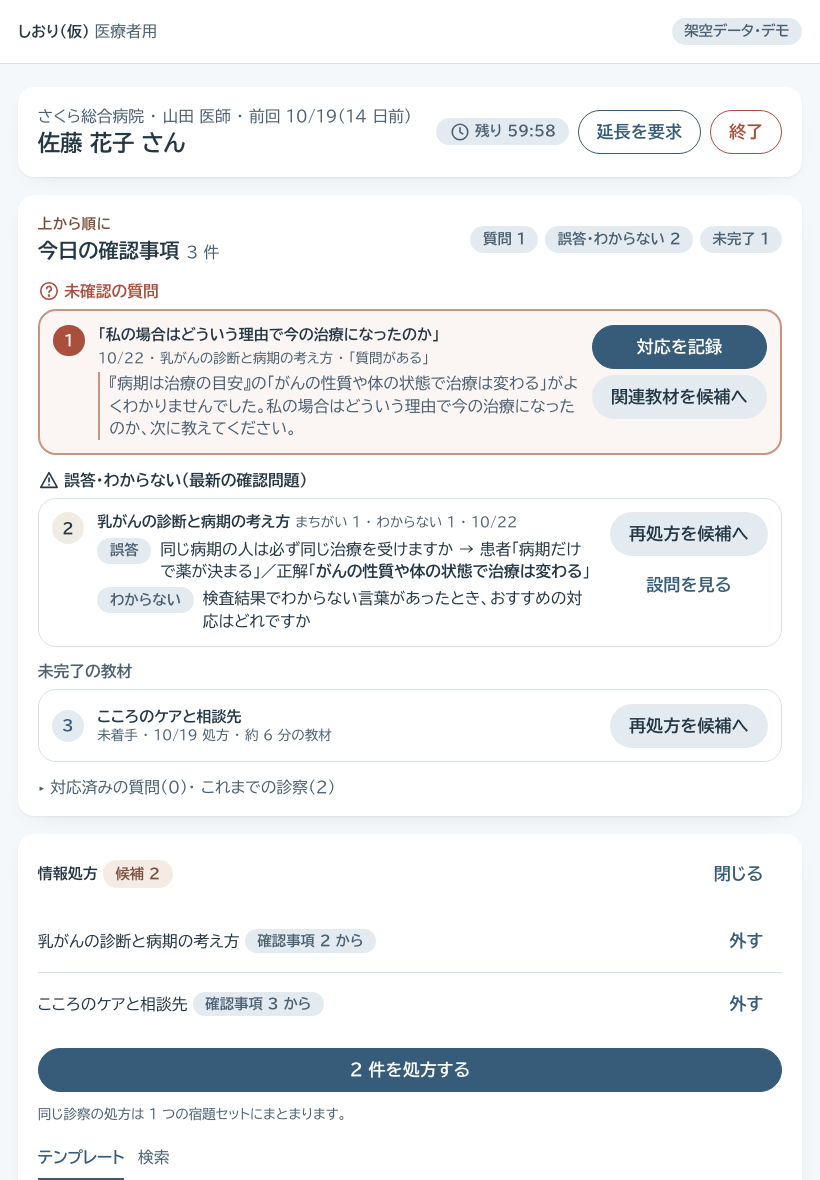
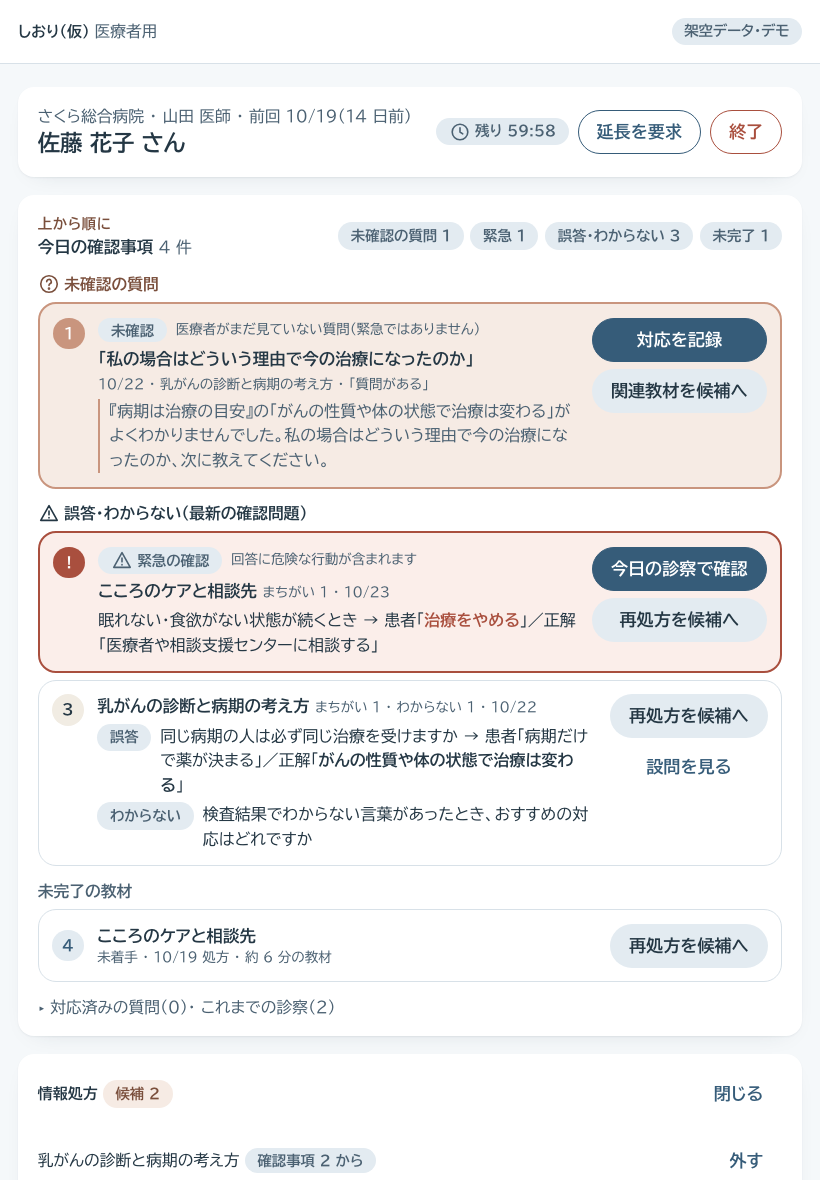
docs(design): PB preview refinements — no-crop thumbnails, urgent vs unconfirmed, staff text sizes; /pb access test
ユーザー指摘への対応（本番 UI は未変更。docs/design/porcelain_blue_20261103/README.md）:
- 図解ストリップのサムネイルはトリミングしない（object-fit: contain、52px）。内容は図本体で読む
- 緊急（赤＋「緊急の確認」＋警告アイコン: 危険な行動を含む回答など）と未確認（テラコッタ＋「未確認」: 状態）を区別。診察プレビューに例を追加
- 医療者画面は一律 15px にせず、質問・誤答・確認事項は 16〜16.5px（.pb-important）
- tests/e2e/pb_access.spec.ts: /pb/* は未ログイン→/staff/login、患者→/home にリダイレクト、医療者のみ表示。図解は承認済み公開アセットのみ
- 再撮影（390/430/820/1180、文字拡大）と計測値を更新

diff --git a/src/app/pb/consult/page.tsx b/src/app/pb/consult/page.tsx
@@ -41,28 +41,33 @@ export default async function PbConsult() {
               <div className="flex flex-wrap items-center justify-between gap-2">
                 <div>
                   <p className="pb-eyebrow">上から順に</p>
-                  <h2 id="pb-today" className="text-lg font-bold">
-                    今日の確認事項 <span className="text-ink-soft font-normal text-sm">3 件</span>
+                  <h2 id="pb-today" className="text-lg font-bold pb-important">
+                    今日の確認事項 <span className="text-ink-soft font-normal text-sm">4 件</span>
                   </h2>
                 </div>
                 <div className="flex flex-wrap gap-1.5">
-                  <span className="pill bg-sakura text-danger">質問 1</span>
-                  <span className="pill bg-suna text-ink">誤答・わからない 2</span>
+                  <span className="pill pb-tag-unconfirmed">未確認の質問 1</span>
+                  <span className="pill pb-tag-urgent">緊急 1</span>
+                  <span className="pill bg-suna text-ink">誤答・わからない 3</span>
                   <span className="pill">未完了 1</span>
                 </div>
               </div>
 
               <div className="space-y-1.5">
-                <h3 className="text-sm font-bold text-danger inline-flex items-center gap-1">
+                <h3 className="text-sm font-bold inline-flex items-center gap-1" style={{ color: "var(--pb-terra-ink)" }}>
                   <IconQuestion />
                   未確認の質問
                 </h3>
-                <div className="rounded-2xl border-2 border-sakura-deep bg-sakura/40 p-3 flex flex-wrap gap-3 items-start sm:flex-nowrap">
-                  <span className="w-7 h-7 rounded-full bg-danger text-white inline-flex items-center justify-center font-bold shrink-0">1</span>
+                <div className="rounded-2xl pb-unconfirmed p-3 flex flex-wrap gap-3 items-start sm:flex-nowrap">
+                  <span className="w-7 h-7 rounded-full bg-sakura-deep text-white inline-flex items-center justify-center font-bold shrink-0">1</span>
                   <div className="min-w-0 flex-1 basis-[12rem] space-y-1">
-                    <p className="font-bold leading-snug">「私の場合はどういう理由で今の治療になったのか」</p>
+                    <p className="flex flex-wrap items-center gap-2">
+                      <span className="pill pb-tag-unconfirmed text-xs">未確認</span>
+                      <span className="text-xs text-ink-soft">医療者がまだ見ていない質問（緊急ではありません）</span>
+                    </p>
+                    <p className="font-bold leading-snug pb-important">「私の場合はどういう理由で今の治療になったのか」</p>
                     <p className="text-xs text-ink-soft">10/22 ・ 乳がんの診断と病期の考え方 ・ 「質問がある」</p>
-                    <p className="text-sm border-l-2 border-sakura-deep pl-2 text-ink-soft">『病期は治療の目安』の「がんの性質や体の状態で治療は変わる」がよくわかりませんでした。私の場合はどういう理由で今の治療になったのか、次に教えてください。</p>
+                    <p className="pb-important-sub border-l-2 border-sakura-deep pl-2 text-ink-soft">『病期は治療の目安』の「がんの性質や体の状態で治療は変わる」がよくわかりませんでした。私の場合はどういう理由で今の治療になったのか、次に教えてください。</p>
                   </div>
                   <div className="flex flex-wrap sm:flex-col gap-1.5 w-full sm:w-auto">
                     <button className="btn btn-primary flex-1 sm:flex-none">対応を記録</button>
@@ -76,13 +81,36 @@ export default async function PbConsult() {
                   <IconAlert />
                   誤答・わからない（最新の確認問題）
                 </h3>
-                <div className="rounded-2xl border border-line p-3 flex flex-wrap gap-3 items-start sm:flex-nowrap">
-                  <span className="w-7 h-7 rounded-full bg-suna text-ink inline-flex items-center justify-center font-bold shrink-0">2</span>
+                {/* 緊急: 患者の回答に医学的に危険な行動（治療をやめる）が含まれる例。赤＋「緊急の確認」。未確認（テラコッタ）とは別 */}
+                <div className="rounded-2xl pb-urgent p-3 flex flex-wrap gap-3 items-start sm:flex-nowrap">
+                  <span className="w-7 h-7 rounded-full bg-danger text-white inline-flex items-center justify-center font-bold shrink-0">!</span>
                   <div className="min-w-0 flex-1 basis-[12rem] space-y-1">
-                    <p className="font-bold leading-snug">
+                    <p className="flex flex-wrap items-center gap-2">
+                      <span className="pill pb-tag-urgent text-xs inline-flex items-center gap-1">
+                        <IconAlert />
+                        緊急の確認
+                      </span>
+                      <span className="text-xs text-ink-soft">回答に危険な行動が含まれます</span>
+                    </p>
+                    <p className="font-bold leading-snug pb-important">
+                      こころのケアと相談先 <span className="text-xs font-normal text-ink-soft">まちがい 1 ・ 10/23</span>
+                    </p>
+                    <p className="pb-important-sub">
+                      眠れない・食欲がない状態が続くとき → 患者「<b className="text-danger">治療をやめる</b>」／正解「医療者や相談支援センターに相談する」
+                    </p>
+                  </div>
+                  <div className="flex flex-wrap sm:flex-col gap-1.5 w-full sm:w-auto">
+                    <button className="btn btn-primary flex-1 sm:flex-none">今日の診察で確認</button>
+                    <button className="btn btn-soft flex-1 sm:flex-none">再処方を候補へ</button>
+                  </div>
+                </div>
+                <div className="rounded-2xl border border-line p-3 flex flex-wrap gap-3 items-start sm:flex-nowrap">
+                  <span className="w-7 h-7 rounded-full bg-suna text-ink inline-flex items-center justify-center font-bold shrink-0">3</span>
+                  <div className="min-w-0 flex-1 basis-[12rem] space-y-1">
+                    <p className="font-bold leading-snug pb-important">
                       乳がんの診断と病期の考え方 <span className="text-xs font-normal text-ink-soft">まちがい 1 ・ わからない 1 ・ 10/22</span>
                     </p>
-                    <ul className="text-sm space-y-1">
+                    <ul className="pb-important-sub space-y-1">
                       <li className="flex gap-2 items-start">
                         <span className="pill bg-sakura text-danger shrink-0">誤答</span>
                         <span>
@@ -105,11 +133,11 @@ export default async function PbConsult() {
               <div className="space-y-1.5">
                 <h3 className="text-sm font-bold text-ink-soft">未完了の教材</h3>
                 <div className="rounded-2xl border border-line p-3 flex flex-wrap gap-3 items-center">
-                  <span className="w-7 h-7 rounded-full bg-accent-soft text-accent inline-flex items-center justify-center font-bold shrink-0" style={{ background: "var(--accent-soft)" }}>
-                    3
+                  <span className="w-7 h-7 rounded-full inline-flex items-center justify-center font-bold shrink-0" style={{ background: "var(--accent-soft)", color: "var(--accent)" }}>
+                    4
                   </span>
                   <div className="min-w-0 flex-1">
-                    <p className="font-bold leading-snug">こころのケアと相談先</p>
+                    <p className="font-bold leading-snug pb-important">こころのケアと相談先</p>
                     <p className="text-xs text-ink-soft">未着手 ・ 10/19 処方 ・ 約 6 分の教材</p>
                   </div>
                   <button className="btn btn-soft w-full sm:w-auto">再処方を候補へ</button>

diff --git a/tests/e2e/pb_access.spec.ts b/tests/e2e/pb_access.spec.ts
@@ -1,0 +1,39 @@
+import { test } from "@playwright/test";
+import { demoLogin, expect, newPage } from "./helpers";
+
+/**
+ * 比較用ルート /pb/* のアクセス制御（サーバー側）。
+ * 未ログイン → /staff/login へ、患者 → /home へ、医療者 → 表示。図解は承認済み（患者公開可）のものだけを使う。
+ */
+const PAGES = ["/pb", "/pb/home", "/pb/learn", "/pb/quiz-result", "/pb/consult", "/pb/studio-outline"];
+
+test("未ログインと患者は /pb/* を表示できない。医療者は表示できる", async ({ browser }) => {
+  const anon = await newPage(browser, { width: 820, height: 1180 });
+  for (const p of PAGES) {
+    const r = await anon.page.request.get(p, { maxRedirects: 0 });
+    expect([302, 303, 307, 308], `${p} (anon) should redirect`).toContain(r.status());
+    expect(r.headers()["location"] ?? "").toMatch(/\/staff\/login/);
+  }
+  await anon.ctx.close();
+
+  const patient = await newPage(browser, { width: 390, height: 844 });
+  await demoLogin(patient.page, "patient", "佐藤 花子");
+  for (const p of PAGES) {
+    const r = await patient.page.request.get(p, { maxRedirects: 0 });
+    expect([302, 303, 307, 308], `${p} (patient) should redirect`).toContain(r.status());
+    expect(r.headers()["location"] ?? "").toMatch(/\/home/);
+  }
+  await patient.ctx.close();
+
+  const staff = await newPage(browser, { width: 1180, height: 820 });
+  await demoLogin(staff.page, "staff", "山田 太郎");
+  await staff.page.goto("/pb");
+  await expect(staff.page.getByRole("heading", { name: /Porcelain Blue/ })).toBeVisible();
+  // 学習プレビューの図解は患者公開済み（/assets/ 配下）のみ。未承認画像の管理者 URL（/api/v1/admin/figures/）は使わない
+  const learnHref = (await staff.page.getByRole("link", { name: "教材学習（図解ストリップ）" }).getAttribute("href"))!;
+  await staff.page.goto(learnHref);
+  const srcs = await staff.page.locator("article img").evaluateAll((els) => els.map((e) => (e as HTMLImageElement).getAttribute("src") ?? ""));
+  expect(srcs.length).toBeGreaterThan(0);
+  for (const s of srcs) expect(s, "図解は承認済みの公開アセットのみ").not.toMatch(/\/api\/v1\/admin\/figures\//);
+  await staff.ctx.close();
+});

diff --git a/src/app/pb/pb.css b/src/app/pb/pb.css
@@ -142,12 +142,14 @@
   box-shadow: 0 0 0 2px var(--accent-soft);
 }
 .pb-figstrip img {
-  width: 44px;
-  height: 44px;
+  /* トリミングで医学的情報が失われないよう全体を収める（contain）。識別の手掛かりで、内容は下の図本体で読む */
+  width: 52px;
+  height: 52px;
   flex: none;
-  object-fit: cover;
+  object-fit: contain;
   border-radius: 10px;
-  background: var(--sora);
+  background: #fff;
+  border: 1px solid var(--line);
 }
 .pb-figstrip span {
   display: block;
@@ -160,10 +162,38 @@
 html[data-textsize="large"] .pb-figstrip span {
   font-size: 0.72rem;
 }
-/* 医療者画面（密度を上げる） */
+/* 緊急（医療的な緊急性）と未確認（状態）を混同しない:
+   - .pb-urgent: 赤（--danger）の枠と面、警告アイコン、「緊急」ラベル。医学的に急ぐ内容（緊急連絡の症状、危険な行動の回答）だけ
+   - .pb-unconfirmed: テラコッタの枠と面、「未確認」ラベル。まだ医療者が見ていない・確認していない状態 */
+.pb-urgent {
+  border: 2px solid var(--danger);
+  background: #fbeeea;
+}
+.pb-unconfirmed {
+  border: 2px solid var(--sakura-deep);
+  background: var(--pb-terra-soft);
+}
+.pb-tag-urgent {
+  background: var(--danger);
+  color: #fff;
+  font-weight: 700;
+}
+.pb-tag-unconfirmed {
+  background: var(--pb-terra);
+  color: #fff;
+  font-weight: 700;
+}
+/* 医療者画面: 補助情報は 15px、重要な質問・誤答・確認事項は 16px 以上（.pb-important） */
 .pb-staff {
   font-size: 15px;
   line-height: 1.55;
+}
+.pb-staff .pb-important {
+  font-size: 16.5px;
+  line-height: 1.5;
+}
+.pb-staff .pb-important-sub {
+  font-size: 16px;
 }
 .pb-staff .card {
   padding: 1rem 1.1rem;

diff --git a/docs/design/porcelain_blue_20261103/README.md b/docs/design/porcelain_blue_20261103/README.md
@@ -22,11 +22,13 @@
 | `--sakura` / `--sakura-deep` / `--danger` | `#F6E7E1` / `#C9957E` / `#A94F3E` | ちがう答え・未確認の質問の面・枠・文字 | `#F1E1E3` / `#C9A3AA` / `#9A5A66` |
 | `--suna` | `#F1ECE3` | わからないの面 | `#F0E3DA` |
 | `--radius` / `--tap` | `20px` / `56px` | カード角・最小タップ | `24px` / `58px` |
+| `.pb-urgent` / `.pb-tag-urgent` | 枠 `--danger` `#A94F3E`、面 `#FBEEEA`、白文字タグ「緊急」＋警告アイコン | **医療的な緊急性**（緊急連絡の症状、危険な行動を含む回答、未確認の安全上の必須事項） | — |
+| `.pb-unconfirmed` / `.pb-tag-unconfirmed` | 枠 `#C9957E`、面 `#F6EBE4`、白文字タグ「未確認」 | **状態**（医療者がまだ見ていない質問・確認待ち）。緊急性は意味しない | — |
 
 文字の階層（患者）: eyebrow 0.8rem 太字 terra → 見出し 1.5〜1.65rem → 要点 1.25rem 太字 → 本文 1.05rem 行間 1.8 → 補助 0.875rem `--ink-soft`。本文 18px（拡大 21px）は維持。
 カード: 余白 1.25rem × 1.3rem、枠線なし、影 1px＋柔らかい落ち影。情報の面（ピル・タイル）は `--accent-soft` / 状態色の面。
 アイコン: 線幅 1.75 の線画（ホーム・きろく・共有・再生・✓・！・？・時計）。装飾ではなく状態と行先を示す箇所だけ。
-医療者画面: 本文 15px、カード余白 1rem、ボタン 44px、ピル 0.8rem。患者画面と同じトークンで密度だけ上げる。
+医療者画面: 補助情報 15px、**重要な質問・誤答・確認事項は 16〜16.5px（`.pb-important` / `.pb-important-sub`）**、カード余白 1rem、ボタン 44px、ピル 0.8rem。患者画面と同じトークンで、重要度に応じて文字サイズを分ける（一律 15px にはしない）。
 
 ## 2. 主要 5 画面の Before / After
 
@@ -41,19 +43,20 @@
 
 | 390 標準（px、画面上端から） | Before（Day 6） | After（ストリップ） | After（通常サイズ図） |
 |---|---|---|---|
-| 本文 1 文の上端 | 420 | 542 | 422 |
-| 図の上端 | 747 | ストリップ 422、図本体 682 | 748 |
-| 全高 | 1,546 | 1,349 | 1,415 |
+| 本文 1 文の上端 | 420 | 544 | 422 |
+| 図の上端 | 747 | ストリップ 422、図本体 684 | 748 |
+| 全高 | 1,546 | 1,351 | 1,415 |
 
 | 390 文字拡大 | Before | After（ストリップ） |
 |---|---|---|
-| 本文 1 文の上端 | 472 | 610 |
-| 図 | 900 | ストリップ 474、図本体 774 |
+| 本文 1 文の上端 | 472 | 629 |
+| 図 | 900 | ストリップ 474、図本体 793 |
 
-- 初期表示に「3 つの図があること・それぞれ何の図か」と本文 1 文が同時に入る（本文の上端は 420 → 542 と下がるが、下端は約 640 で画面内）。図本体は 1 スクロール弱で全体が見える。全高は 1,546 → 1,349 に短縮。
+- 初期表示に「3 つの図があること・それぞれ何の図か」と本文 1 文が同時に入る（本文の上端は 420 → 544 と下がるが、下端は約 640 で画面内）。図本体は 1 スクロール弱で全体が見える。全高は 1,546 → 1,351 に短縮。
+- サムネイルは **トリミングしない**（`object-fit: contain`、52px、白地に枠）。図全体を縮小して示すだけで、ラベル・注記・医学的内容は下の図本体で読む。サムネイルで内容を判断させない（識別の手掛かりに限定）。
 - 維持: 並び（見出し → 要点 → 読み上げ → 本文 1 文 → 図 → くわしく）、読み上げ 60px、caption と「順番ではない」注記の常時表示、固定の前へ/次へ。
 - 弱点: ストリップの図は小さく医学的内容は読めない（「何の図か」を示す役割）。通常サイズの図のまま配色だけ変えた案（`fullfig`）は Day 6 と同じく図の上端（748）が画面の下端にかかるだけで、初期表示での図の識別性は改善しない。
-- 判断点: ストリップのサムネイルは図の中央を切り出している。図ごとに切り出し位置（例: 乳房・わきの下・全身）を指定できるようにすると識別性が上がる（実装時に `FigureView` に `thumbFocus` を追加）。
+- 判断点: 52px の全体縮小では細部は見えないため、本番実装では図ごとに「サムネイル専用の簡略版」（線画の輪郭だけ）を用意する案も検討できる。トリミングは行わない。
 
 ### 2.3 クイズ結果（`shots/before_result_*.png` → `shots/after_result_*.png`、テーマ選択後 `after_result_{390,430}_picked.png`）
 課題「質問候補が長く、最初の画面が文章で埋まる」への案: **2 段階**。
@@ -65,7 +68,9 @@
 
 ### 2.4 医療者の診察・理解確認（`shots/before_consult_*.png` → `shots/after_consult_*.png`）
 - 維持: 「今日の確認事項」が主役、質問 → 誤答・わからない → 未完了の順、各行に主アクション 1 つ、残り時間・延長・終了が上部に常時。点数より質問・誤答・未完了が目立つ構成。
-- 変更: 群ごとに番号付きの行（未確認の質問は terra の枠と面で最も強く、誤答は白、未完了は薄い面）、群見出しに線画アイコン。誤答の行で「患者の答え → 正解」を 1 行に、正解を太字。理解確認スコアは右列の末尾で折りたたみ（参考値）。処方パネルは lg 以上で右列に常設し、候補と「n 件を処方する」を上、テンプレート／検索を下に。
+- 変更: 群ごとに番号付きの行、群見出しに線画アイコン。誤答の行で「患者の答え → 正解」を 1 行に、正解を太字。理解確認スコアは右列の末尾で折りたたみ（参考値）。処方パネルは lg 以上で右列に常設し、候補と「n 件を処方する」を上、テンプレート／検索を下に。
+- 緊急と未確認の区別: 未確認の質問はテラコッタの枠＋「未確認」タグ（状態。緊急ではない旨を添える）。回答に危険な行動（例: 眠れない・食欲がない状態が続くとき →「治療をやめる」）が含まれる誤答は赤の枠＋「緊急の確認」タグ＋警告アイコンで、群の先頭に置く。見出し横の集計も「未確認の質問 1 ／ 緊急 1 ／ 誤答・わからない 3 ／ 未完了 1」と分ける。
+- 文字サイズ: 質問文・誤答の行・確認事項の見出し・教材名は 16〜16.5px、日付や付帯情報は 15px、ピルは 12.8px。
 - 390: 行内のボタンは幅いっぱいで折り返し（`after_consult_390.png`）。横スクロール 0、44px 未満の操作要素 0。
 
 ### 2.5 教材スタジオ: 構成案の選択（`shots/before_outline_*.png`（擬似生成 1 案）／ 3 案の内容は `../../screenshots/day6_20261103/real/d5_02_b_outlines.png` → `shots/after_outline_*.png`）
@@ -87,14 +92,17 @@
 | 患者ホーム | 挿絵 compact、一覧の状態文字、ピル | 1h | `home/page.tsx` |
 | 学習画面 | 図解ストリップ（`FigureSet` に `layout="strip"` を追加、既定は従来）。サムネイル切り出し位置の指定 | 3h | `FigureSet`、`LearnClient`、E2E `learn_layout` の期待値 |
 | クイズ結果 | 2 段階の質問（テーマチップ → 編集欄）。送信 payload は不変 | 3h | `QuizClient`、E2E `quiz_result` |
-| 診察画面 | 群ごとの行デザイン、スコアの折りたたみ、処方パネルの順序 | 3h | `ConsultClient`、`PrescriptionPanel`、E2E `layout`/`c2_screens` |
+| 診察画面 | 群ごとの行デザイン（緊急／未確認の区別、16px 以上の重要文）、スコアの折りたたみ、処方パネルの順序。緊急判定は「危険な行動を含む選択肢」を設問側で医療者が印付けする仕組みが必要（+2h） | 5h | `ConsultClient`、`PrescriptionPanel`、E2E `layout`/`c2_screens` |
 | スタジオ構成案 | 原資料の折りたたみ、作り方リンク化、案カードの順序 | 2h | `GeneratePanel`、E2E `day6_studio`/`p0_regressions` の文言 |
 | 検証 | 4 幅 × 文字拡大の再撮影、全 E2E | 2h | — |
-| **合計** | | **約 18h（2.5 日）** | ロジック（QR・処方・学習・採点・質問保存・アクセス制御・承認）は変更しない |
+| **合計** | | **約 20h（2.5〜3 日）** | ロジック（QR・処方・学習・採点・質問保存・アクセス制御・承認）は変更しない |
 
 段階適用案: (1) トークン＋共通部品（半日、全画面が PB に）→ (2) 学習の図解ストリップ＋結果の 2 段階（1 日）→ (3) 診察・スタジオ（1 日）。
 
-## 5. 判断をお願いしたい点
-1. 図解ストリップの採否（通常サイズ図を初期表示に入れる案は本文が落ちるため非推奨）。
-2. テラコッタ（#C9957E）の使いどころ: eyebrow・バッジ・未確認の質問の枠に限定する案で進めてよいか。主要ボタンには使わない。
-3. 医療者画面の本文 15px（現行 18px ベース）への密度変更の可否。
+## 5. アクセス制御の確認
+- `/pb/*` の全ページはサーバー側で `requirePageUser("staff")` を通る。`tests/e2e/pb_access.spec.ts` で、未ログインは `/staff/login` へ、患者は `/home` へリダイレクト（HTTP 307）、医療者のみ表示できることを確認。学習プレビューの図解は承認済みの公開アセット（`/assets/`）だけで、未承認画像の管理者 URL は使わない。
+
+## 6. 判断をお願いしたい点
+1. 図解ストリップの実装方式: 図全体の縮小（今回）か、図ごとの簡略サムネイルを別途作るか。
+2. 「緊急の確認」の判定方法: 設問の選択肢に医療者が「危険な行動」の印を付ける（教材スタジオの確認問題編集に項目追加）案でよいか。
+3. 本番適用の開始時期（スクリーンショット確認後）。
